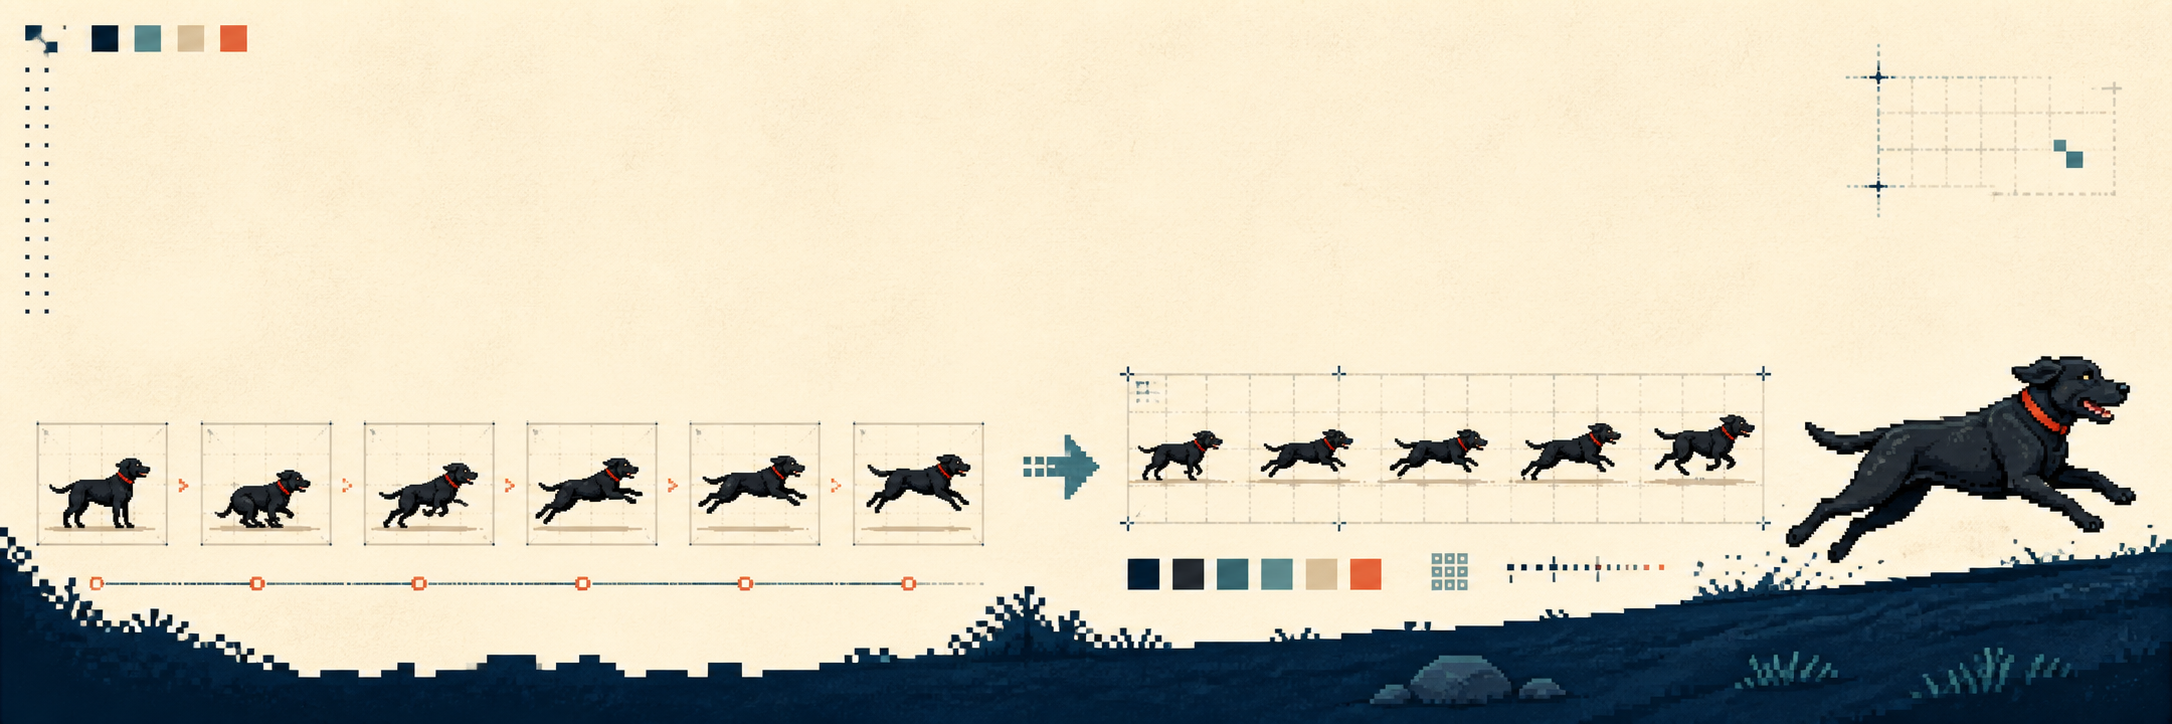
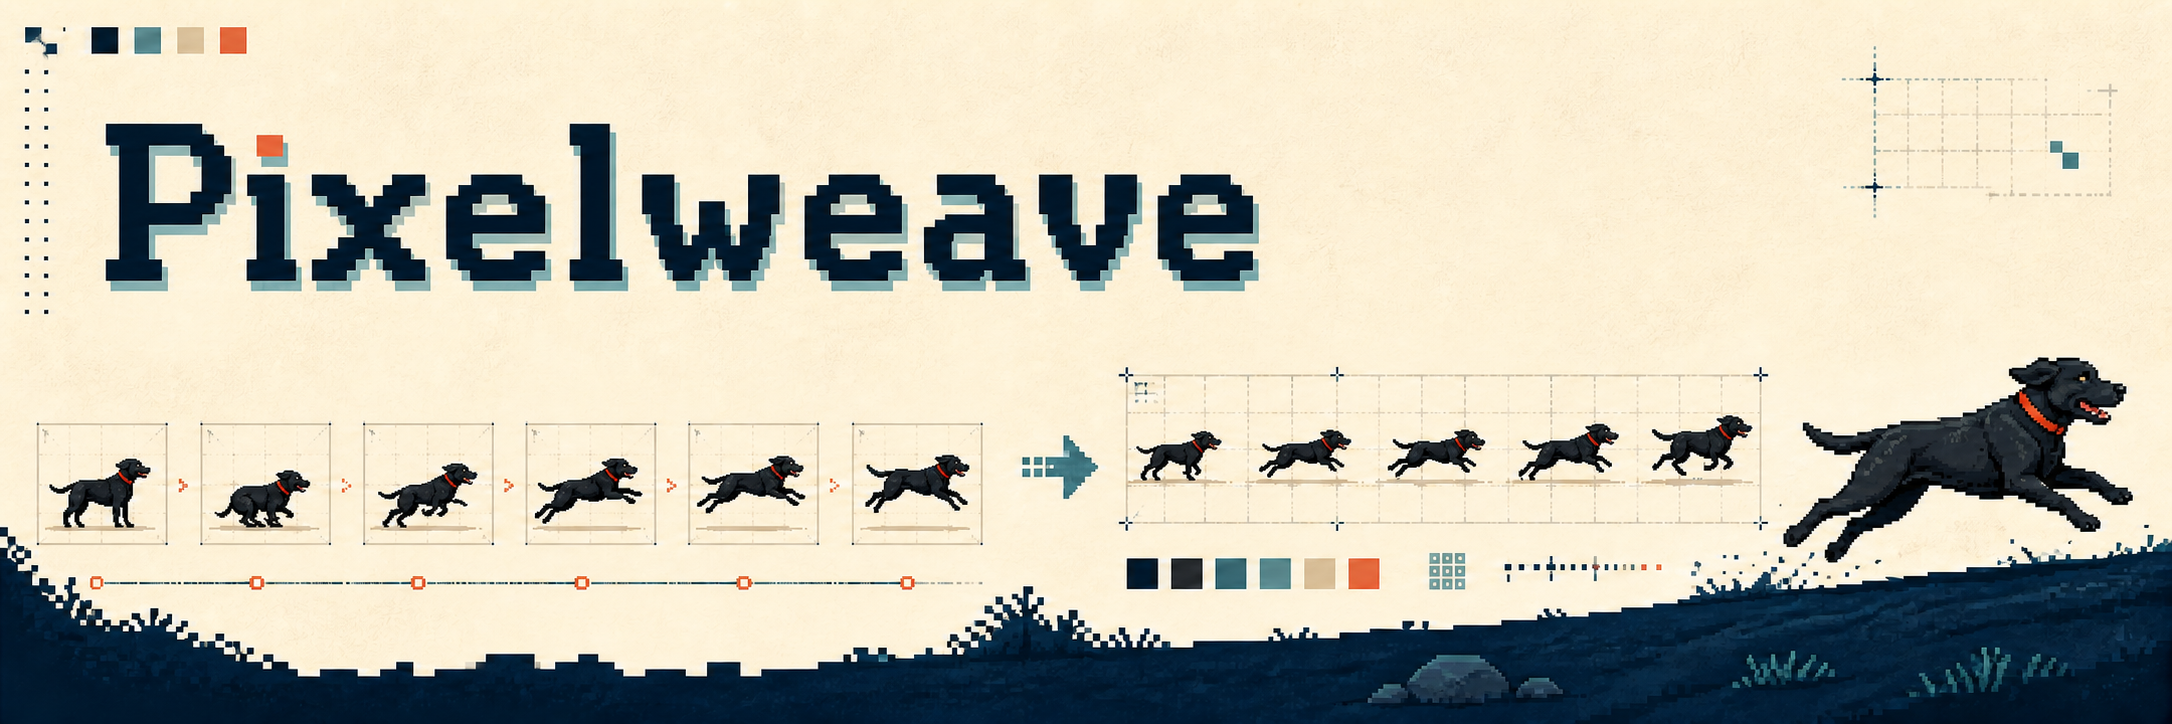
Add animated README preview

diff --git a/docs/readme-banner-generation.md b/docs/readme-banner-generation.md
@@ -4,7 +4,8 @@
 - Generated: 2026-08-19
 - Output: `assets/readme-banner.png` (2172×724 RGB)
 - References: none
-- Intent: a wide, name-independent visual showing pixel animation frames becoming a sprite sheet, with a black Labrador sample, palette swatches, grid marks, and a timeline.
+- Intent: a wide visual showing pixel animation frames becoming a sprite sheet, with a black Labrador sample, palette swatches, grid marks, a timeline, and the `Pixelweave` wordmark.
 
 The banner deliberately contains no readable title, logo, or product name so the
-repository can be renamed without regenerating the artwork.
+The final edit adds the exact `Pixelweave` wordmark in a crisp bitmap style while
+preserving the animation motifs and sample character.

diff --git a/README.md b/README.md
@@ -10,6 +10,10 @@ Image → MiniMax-H3 video → frame selection → common fit → Pixel Snapper 
 
 黒いラブラドールが走るアニメーションを1本、素材と完成品つきで収録している。
 
+## Live preview
+
+![Black Labrador running animation](assets/labrador-run.gif)
+
 - [sample directory](examples/labrador-run/)
 - [13-frame transparent sprite sheet](examples/labrador-run/artifacts/labrador_run_13frames_transparent_reference_palette.png)
 - [Aseprite animation](examples/labrador-run/artifacts/labrador_run_13frames_reference_palette.aseprite)
